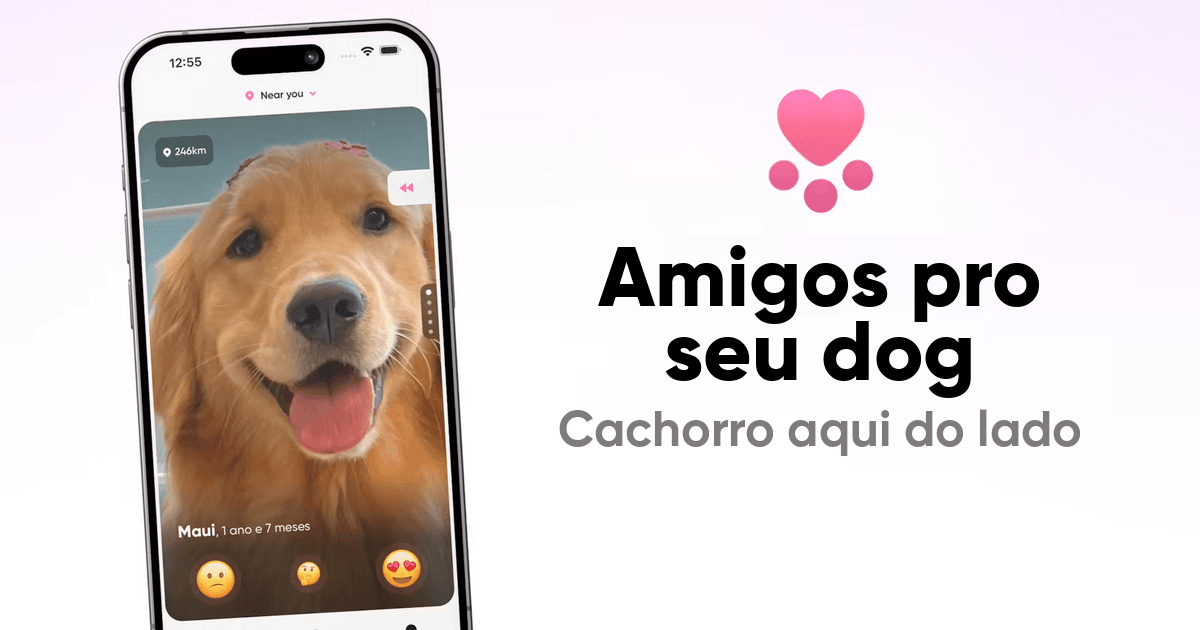
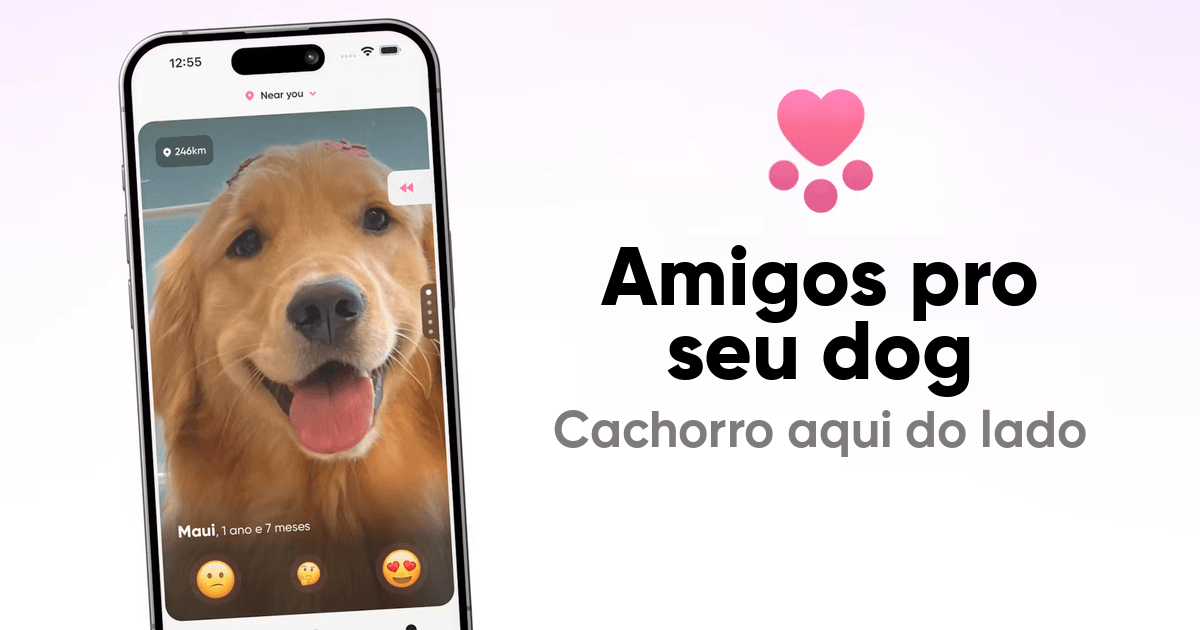
fix(web): draw both home cards from one script in Gilroy

diff --git a/scripts/generate-og-cards.py b/scripts/generate-og-cards.py
@@ -1,0 +1,107 @@
+#!/usr/bin/env python3
+"""Draw the home page link preview cards, one per locale.
+
+The card is a phone shot on the left and a headline on the right. Only the
+headline changes between locales, so both files are drawn here from the same
+plate and the same measurements. That is the point of this script: the cards
+were drawn by hand once, drifted apart, and ended up in two different
+typefaces, neither of which was the one the app is set in.
+
+The plate is `og-image.png` itself. Everything outside the text band is left
+untouched, and the band is repainted from the background either side of it
+before the words go down, so running this again on its own output gives the
+same picture back.
+
+Type is Gilroy, the same files the app and the dog share card use, at the
+sizes and positions the original card used.
+
+    python3 scripts/generate-og-cards.py
+    oxipng -o 4 --strip safe apps/nextjs/public/og-image.png \
+        apps/nextjs/public/og-image-pt-br.png
+
+Adding a locale means adding a row to CARDS below and a row to the lookup in
+`apps/nextjs/src/app/layout.tsx`.
+"""
+
+from pathlib import Path
+
+from PIL import Image, ImageDraw, ImageFont
+
+ROOT = Path(__file__).resolve().parent.parent
+FONTS = ROOT / "packages" / "shared" / "themes" / "fonts"
+PUBLIC = ROOT / "apps" / "nextjs" / "public"
+PLATE = PUBLIC / "og-image.png"
+
+# The band the words sit in, and two columns of clean background either side of
+# it to repaint that band from.
+BAND = (500, 235, 1200, 466)
+SAMPLE_LEFT = 490
+SAMPLE_RIGHT = 1195
+
+CENTRE_X = 820
+HEADLINE_CAP_TOPS = (247, 321)
+SUBTITLE_CAP_TOP = 411
+HEADLINE_CAP_HEIGHT = 59
+SUBTITLE_CAP_HEIGHT = 36
+HEADLINE_COLOUR = (0, 0, 0)
+SUBTITLE_COLOUR = (126, 122, 125)
+
+CARDS = [
+    ("og-image.png", ("Friends For", "Your Doggie"), "Pawfect Matches"),
+    ("og-image-pt-br.png", ("Amigos pro", "seu dog"), "Cachorro aqui do lado"),
+]
+
+
+def font_at_cap_height(name, cap_height):
+    """Gilroy's point size for a given cap height, found by bisection.
+
+    Sizing on cap height rather than points is what keeps the two cards
+    matching the original hand drawn one.
+    """
+    path = str(FONTS / name)
+    low, high = 20.0, 200.0
+    for _ in range(50):
+        middle = (low + high) / 2
+        box = ImageFont.truetype(path, max(1, round(middle))).getbbox("H")
+        if box[3] - box[1] < cap_height:
+            low = middle
+        else:
+            high = middle
+    return ImageFont.truetype(path, round((low + high) / 2))
+
+
+def repaint_band(image):
+    """Wipe the words, keeping the soft gradient they sat on."""
+    pixels = image.load()
+    left_x, top, right_x, bottom = BAND
+    span = (PLATE_WIDTH - 1) - SAMPLE_LEFT
+    for y in range(top, bottom):
+        left = pixels[SAMPLE_LEFT, y]
+        right = pixels[SAMPLE_RIGHT, y]
+        for x in range(left_x, right_x):
+            ratio = (x - SAMPLE_LEFT) / span
+            pixels[x, y] = tuple(
+                round(left[i] + (right[i] - left[i]) * ratio) for i in range(3)
+            )
+
+
+def centre(draw, text, font, cap_top, colour):
+    top_bearing = font.getbbox("H")[1]
+    width = draw.textlength(text, font=font)
+    draw.text((CENTRE_X - width / 2, cap_top - top_bearing), text, font=font, fill=colour)
+
+
+plate = Image.open(PLATE).convert("RGB")
+PLATE_WIDTH = plate.width
+headline_font = font_at_cap_height("Gilroy-ExtraBold.ttf", HEADLINE_CAP_HEIGHT)
+subtitle_font = font_at_cap_height("Gilroy-Bold.ttf", SUBTITLE_CAP_HEIGHT)
+
+for filename, headline_lines, subtitle in CARDS:
+    card = plate.copy()
+    repaint_band(card)
+    draw = ImageDraw.Draw(card)
+    for text, cap_top in zip(headline_lines, HEADLINE_CAP_TOPS):
+        centre(draw, text, headline_font, cap_top, HEADLINE_COLOUR)
+    centre(draw, subtitle, subtitle_font, SUBTITLE_CAP_TOP, SUBTITLE_COLOUR)
+    card.save(PUBLIC / filename, optimize=True)
+    print(f"wrote {filename} {card.width}x{card.height}")
